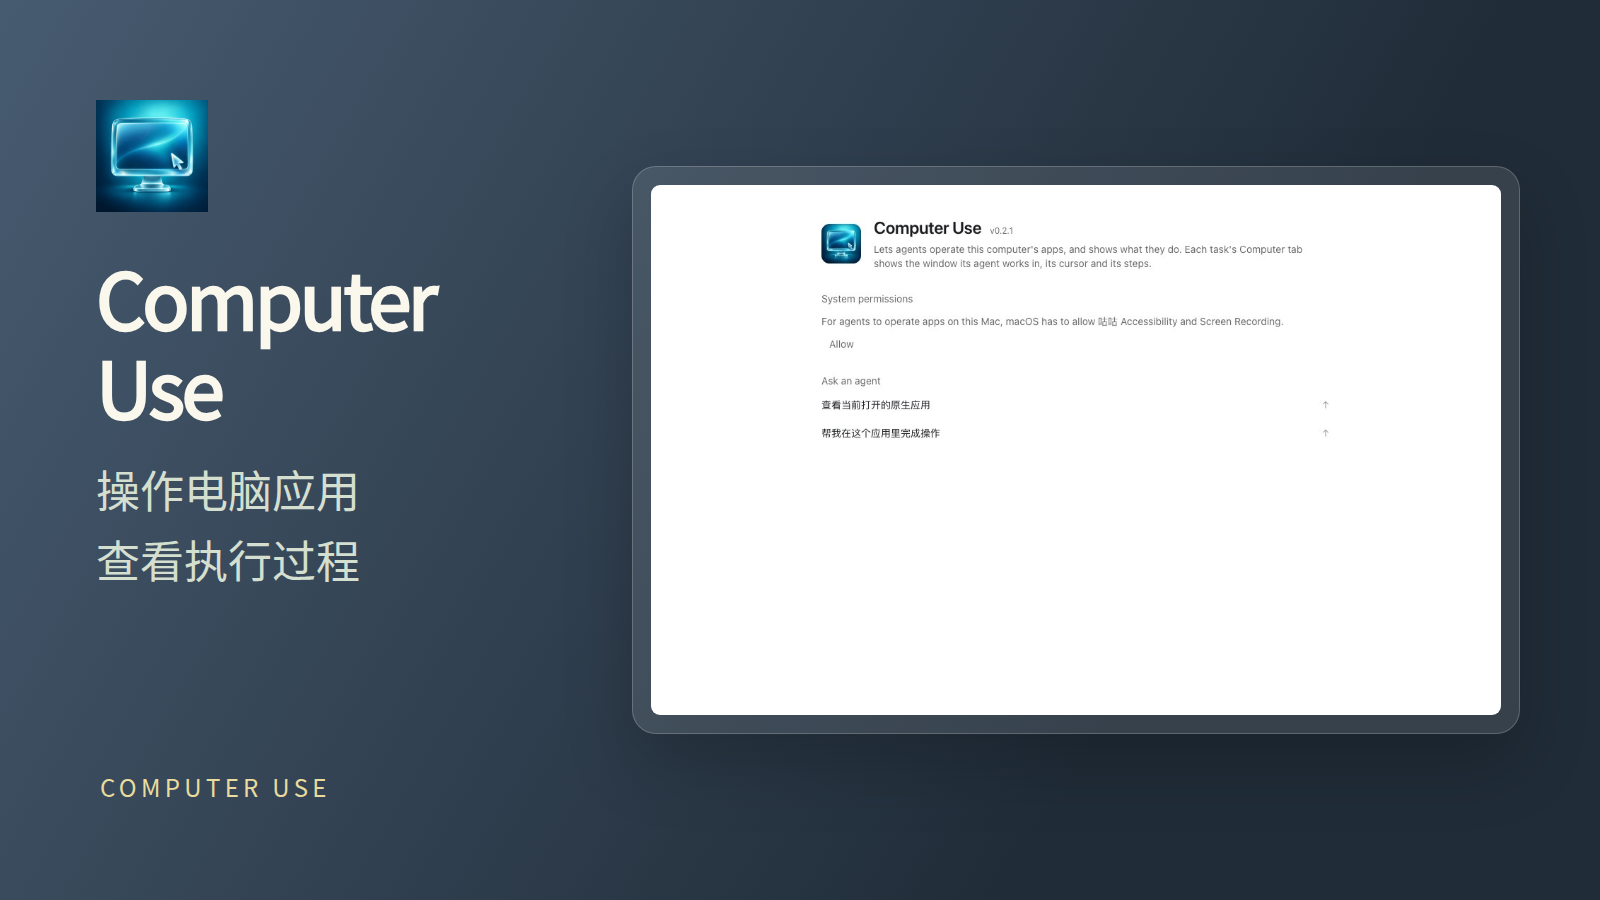
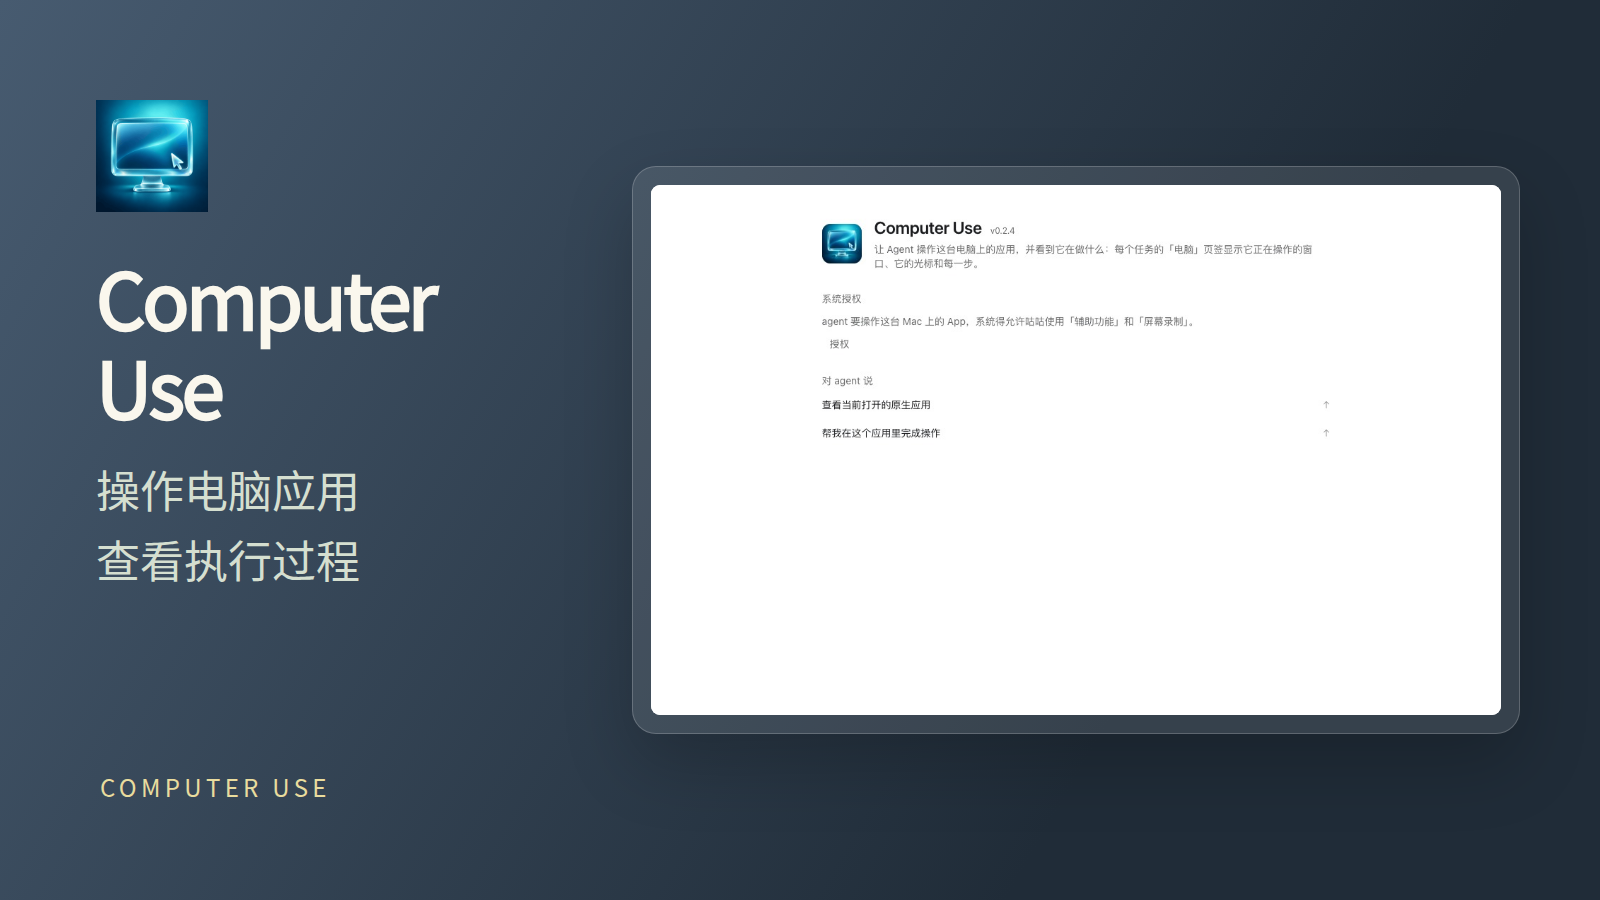
Computer Use 0.2.5: market images show the current settings page in Chinese (#201)

Changed region(s): [[0.5, 0.2489, 0.8125, 0.3733], [0.5312, 0.4356, 0.5938, 0.4978]]

diff --git a/scripts/promo/README.md b/scripts/promo/README.md
@@ -14,7 +14,7 @@ All product images below already existed in the corresponding App before this ar
 | --- | --- | --- |
[7 lines of base64/hex data omitted]

diff --git a/sources/computer-use/app/screenshots/SOURCE.md b/sources/computer-use/app/screenshots/SOURCE.md
@@ -1,5 +1,5 @@
 # Screenshot source
 
-`settings.jpg` shows Computer Use 0.2.1 installed and running in Gugu 0.2.58 (source d544faf9269712bbd4d51ab38530401d14680222), captured on October 23, 2026. It shows the actual configuration page before granting system permissions. No system permissions were changed.
+`settings.jpg` shows Computer Use 0.2.4 installed from the market and running in Gugu 0.2.58 (source fc1d4f0d86b21f27969c6426cf858c276ee2a756) with the interface language set to Chinese, captured on October 30, 2026. It shows the actual configuration page before granting system permissions. No system permissions were changed.
 
 The image is a native window capture cropped to the App content rectangle and encoded as JPEG; the interface was not redrawn.

diff --git a/sources/computer-use/app/CHANGELOG.md b/sources/computer-use/app/CHANGELOG.md
@@ -1,5 +1,9 @@
 # Changelog
 
+## 0.2.5
+
+- The market images show the current settings page in Chinese: `screenshots/settings.jpg` is retaken in 0.2.4, and the promo frames it in place of the 0.2.1 English page.
+
 ## 0.2.4
 
 - Declare desktop support for the human interface (App API 12).
